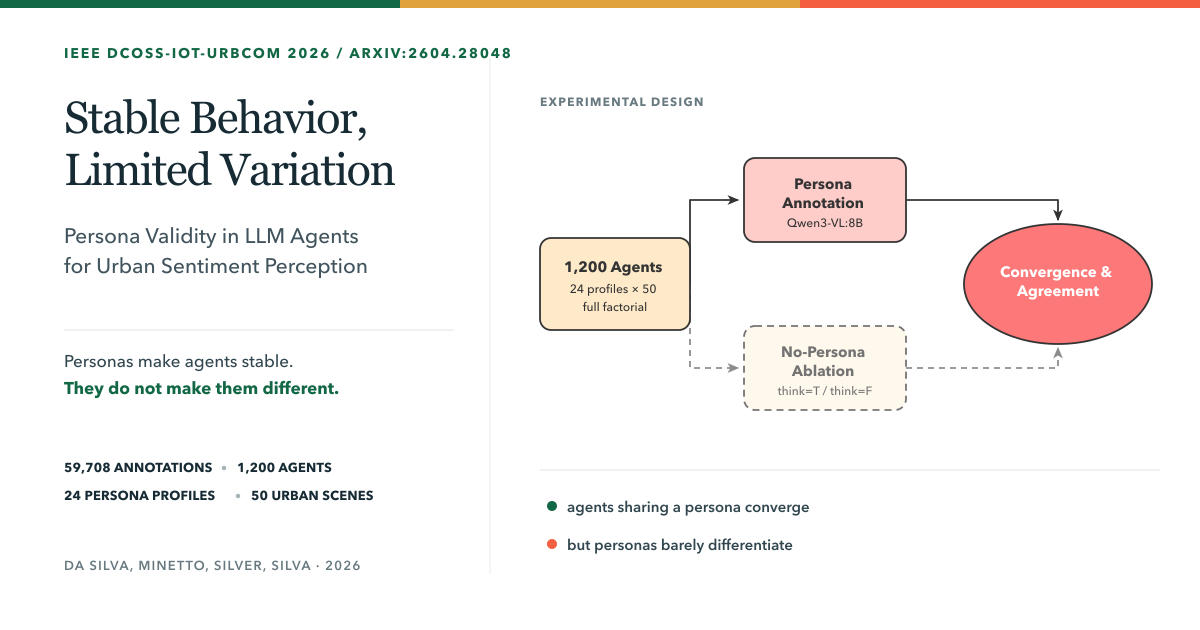
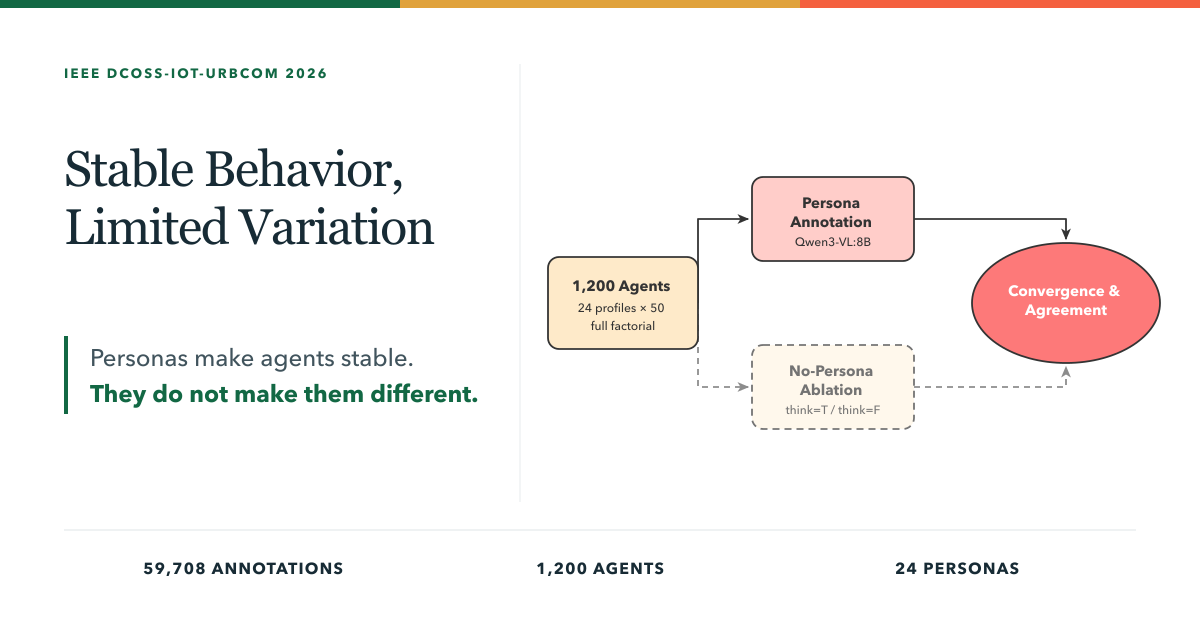
refactor(meta): cut the preview card down to what a thumbnail can carry
The og:image card carried a subtitle, four stat counts, an author line, and
two bullet conclusions — at feed thumbnail size that reads as grey texture.
Rebuild it on the sibling page's grid: title, the finding in two lines, three
counts, and the figure with its own labels intact. README drops the Pages and
figures sections now that both are documented at their source (the workflow,
and build-figures.mjs's header).

Also strip explanatory `/* … */` comments from the page, the layout metadata,
the Pages base-path config, the two build/verify scripts, and the HTML test —
the code already says what they said. The `eslint-disable` lines in
app/page.tsx stay, since those are lint directives, not documentation.
build-figures.mjs drops the `<!-- -->` markers it wrote into the generated
SVGs too, so both figures are regenerated; the diff is only those comment
lines.

Verified with `npm run lint`, `tsc --noEmit`, and `npm run test` — all pass.

diff --git a/app/page.tsx b/app/page.tsx
@@ -1,9 +1,7 @@
 import type { Metadata } from "next";
 import { CitationBlock } from "./InteractivePanels";
 
-/* Plain image elements keep public assets path-relative for GitHub Pages. */
 /* eslint-disable @next/next/no-img-element */
-/* Scrollable data regions are keyboard-focusable on narrow viewports. */
 /* eslint-disable jsx-a11y/no-noninteractive-tabindex */
 
 export const dynamic = "force-static";
@@ -30,15 +28,13 @@ export const metadata: Metadata = {
     siteName: "Persona Validity in LLM Agents for Urban Sentiment Perception",
     locale: "en_US",
     publishedTime: "2026-04-30",
-    /* PNG, not the SVG figure: no major social crawler renders SVG for a link
-       preview, and the ones that do not simply fall back to no image at all. */
     images: [
       {
         url: `${siteUrl}og.png`,
         width: 1200,
         height: 630,
         type: "image/png",
-        alt: "Stable Behavior, Limited Variation — persona validity in LLM agents for urban sentiment perception, beside the three-phase experimental design: 1,200 persona-driven agents, a persona annotation branch with a dashed no-persona ablation, and a convergence and agreement analysis",
+        alt: "Stable Behavior, Limited Variation — personas make agents stable, they do not make them different, beside the experimental design: 1,200 agents, a persona branch with a dashed no-persona branch, and a convergence analysis",
       },
     ],
   },
@@ -70,8 +66,6 @@ export const metadata: Metadata = {
   },
 };
 
-/* Rendered as the abstract and reused verbatim in the structured data, so the
-   text a crawler indexes cannot drift from the text a reader sees. */
 const abstract =
   "Large Language Models (LLMs) are increasingly used as proxies for human " +
   "perception in urban analysis, yet it remains unclear whether persona prompting " +
@@ -108,8 +102,6 @@ const authors = [
   ["Thiago H Silva", "1,2"],
 ] as const;
 
-/* Macro F1 on the sigma = 3 agreement subsets, from the paper's evaluation
-   table. Held here so the table body and the alt text cannot drift apart. */
 const agreementRows = [
   {
     level: "Binary",

diff --git a/app/layout.tsx b/app/layout.tsx
@@ -25,11 +25,6 @@ export const metadata: Metadata = {
     "sentiment annotation",
     "LLM agents",
   ],
-  /* The icon comes from app/icon.png rather than a metadata entry: only the
-     file convention runs through the asset pipeline, and so only it picks up
-     `basePath`. A relative metadata href would break on the exported 404 page,
-     which resolves it from its own nested directory. */
-  /* Large image previews and untruncated snippets in search results. */
   robots: {
     index: true,
     follow: true,

diff --git a/next.config.ts b/next.config.ts
@@ -2,10 +2,6 @@ import type { NextConfig } from "next";
 
 const githubPages = process.env.GITHUB_PAGES === "true";
 
-/* Project Pages serve the site from /<repo>/, so the export needs a base path:
-   it prefixes the framework chunks and the metadata icon, which the generated
-   404 page resolves from its own nested URL rather than from the site root.
-   Figures stay relative to index.html and need no prefix. */
 const nextConfig: NextConfig = {
   output: "export",
   images: {

diff --git a/README.md b/README.md
@@ -22,57 +22,6 @@ Open the local URL printed by Next.js. A plain `npm run build` writes a static
 export to `out/` with no base path, which is what the local server and the tests
 read.
 
-## GitHub Pages build
-
-`GITHUB_PAGES=true` adds the project base path (`/MLLMs-persona-evaluation`) and
-trailing slashes, so the export can be served from a project Pages site:
-
-```bash
-GITHUB_PAGES=true npm run build
-npm run verify:pages
-```
-
-`verify:pages` walks the export and fails if any referenced asset is missing,
-empty, or cased differently than the file on disk.
-
-Deployment is automated by [`.github/workflows/deploy-pages.yml`](.github/workflows/deploy-pages.yml).
-
-**Enable Pages before the first run.** In the GitHub repository, select
-**Settings → Pages → Source → GitHub Actions**, then push to `main` or re-run
-the workflow. Until that setting exists the `configure-pages` step fails with
-`Get Pages site failed … Not Found`, because the repository has no Pages site to
-configure. The action can create one through its `enablement` input, but only
-when given a personal access token or GitHub App token — it cannot do it with
-the workflow's own `GITHUB_TOKEN`, so the setting is a one-time manual step.
-
-If this directory does not yet have the remote configured:
-
-```bash
-git remote add origin git@github.com:MInDS-lab-UTFPR/MLLMs-persona-evaluation.git
-git branch -M main
-git push -u origin main
-```
-
-## Figures
-
-Both figures are generated, not hand-edited:
-
-```bash
-npm run figures
-```
-
-[`scripts/build-figures.mjs`](scripts/build-figures.mjs) writes
-`public/paper/figure-1-experimental-design.svg` and
-`public/paper/profile-sentiment-heatmap.svg`. The design figure is a
-transcription of the paper's TikZ source, keeping its coordinates, `mopal`
-palette, and dashed ablation branch. The heatmap redraws
-`fig_rq1a_profile_sentiment_heatmap` from
-[`scripts/data/profile-sentiment.json`](scripts/data/profile-sentiment.json),
-which was recomputed from `outputs/annotations_baseline.jsonl` in the analysis
-repository using the same Wilson interval and row ordering as
-`src/utils/convergence.py`. Both emit real `<text>` rather than glyph outlines,
-so they stay small and searchable.
-
 ## Tests
 
 ```bash

diff --git a/artwork/README.md b/artwork/README.md
@@ -7,8 +7,11 @@ them directly.
 
 ## `og-social-card.svg` → `public/og.png`
 
-The 1200 × 630 Open Graph preview. Composes the paper's title, headline finding,
-and study counts beside a compact redrawing of figure 1, in the same palette.
+The 1200 × 630 Open Graph preview, on the sibling project page's grid: the
+title, the finding in one breath, three study counts, and a compact redrawing of
+figure 1 in the same palette. Everything around the figure is deliberately
+sparse — a preview is read at thumbnail size, so prose that needs a second look
+belongs on the page. The figure keeps its own labels.
 
 ```sh
 rsvg-convert -w 1200 -h 630 -o ../public/og.png og-social-card.svg
